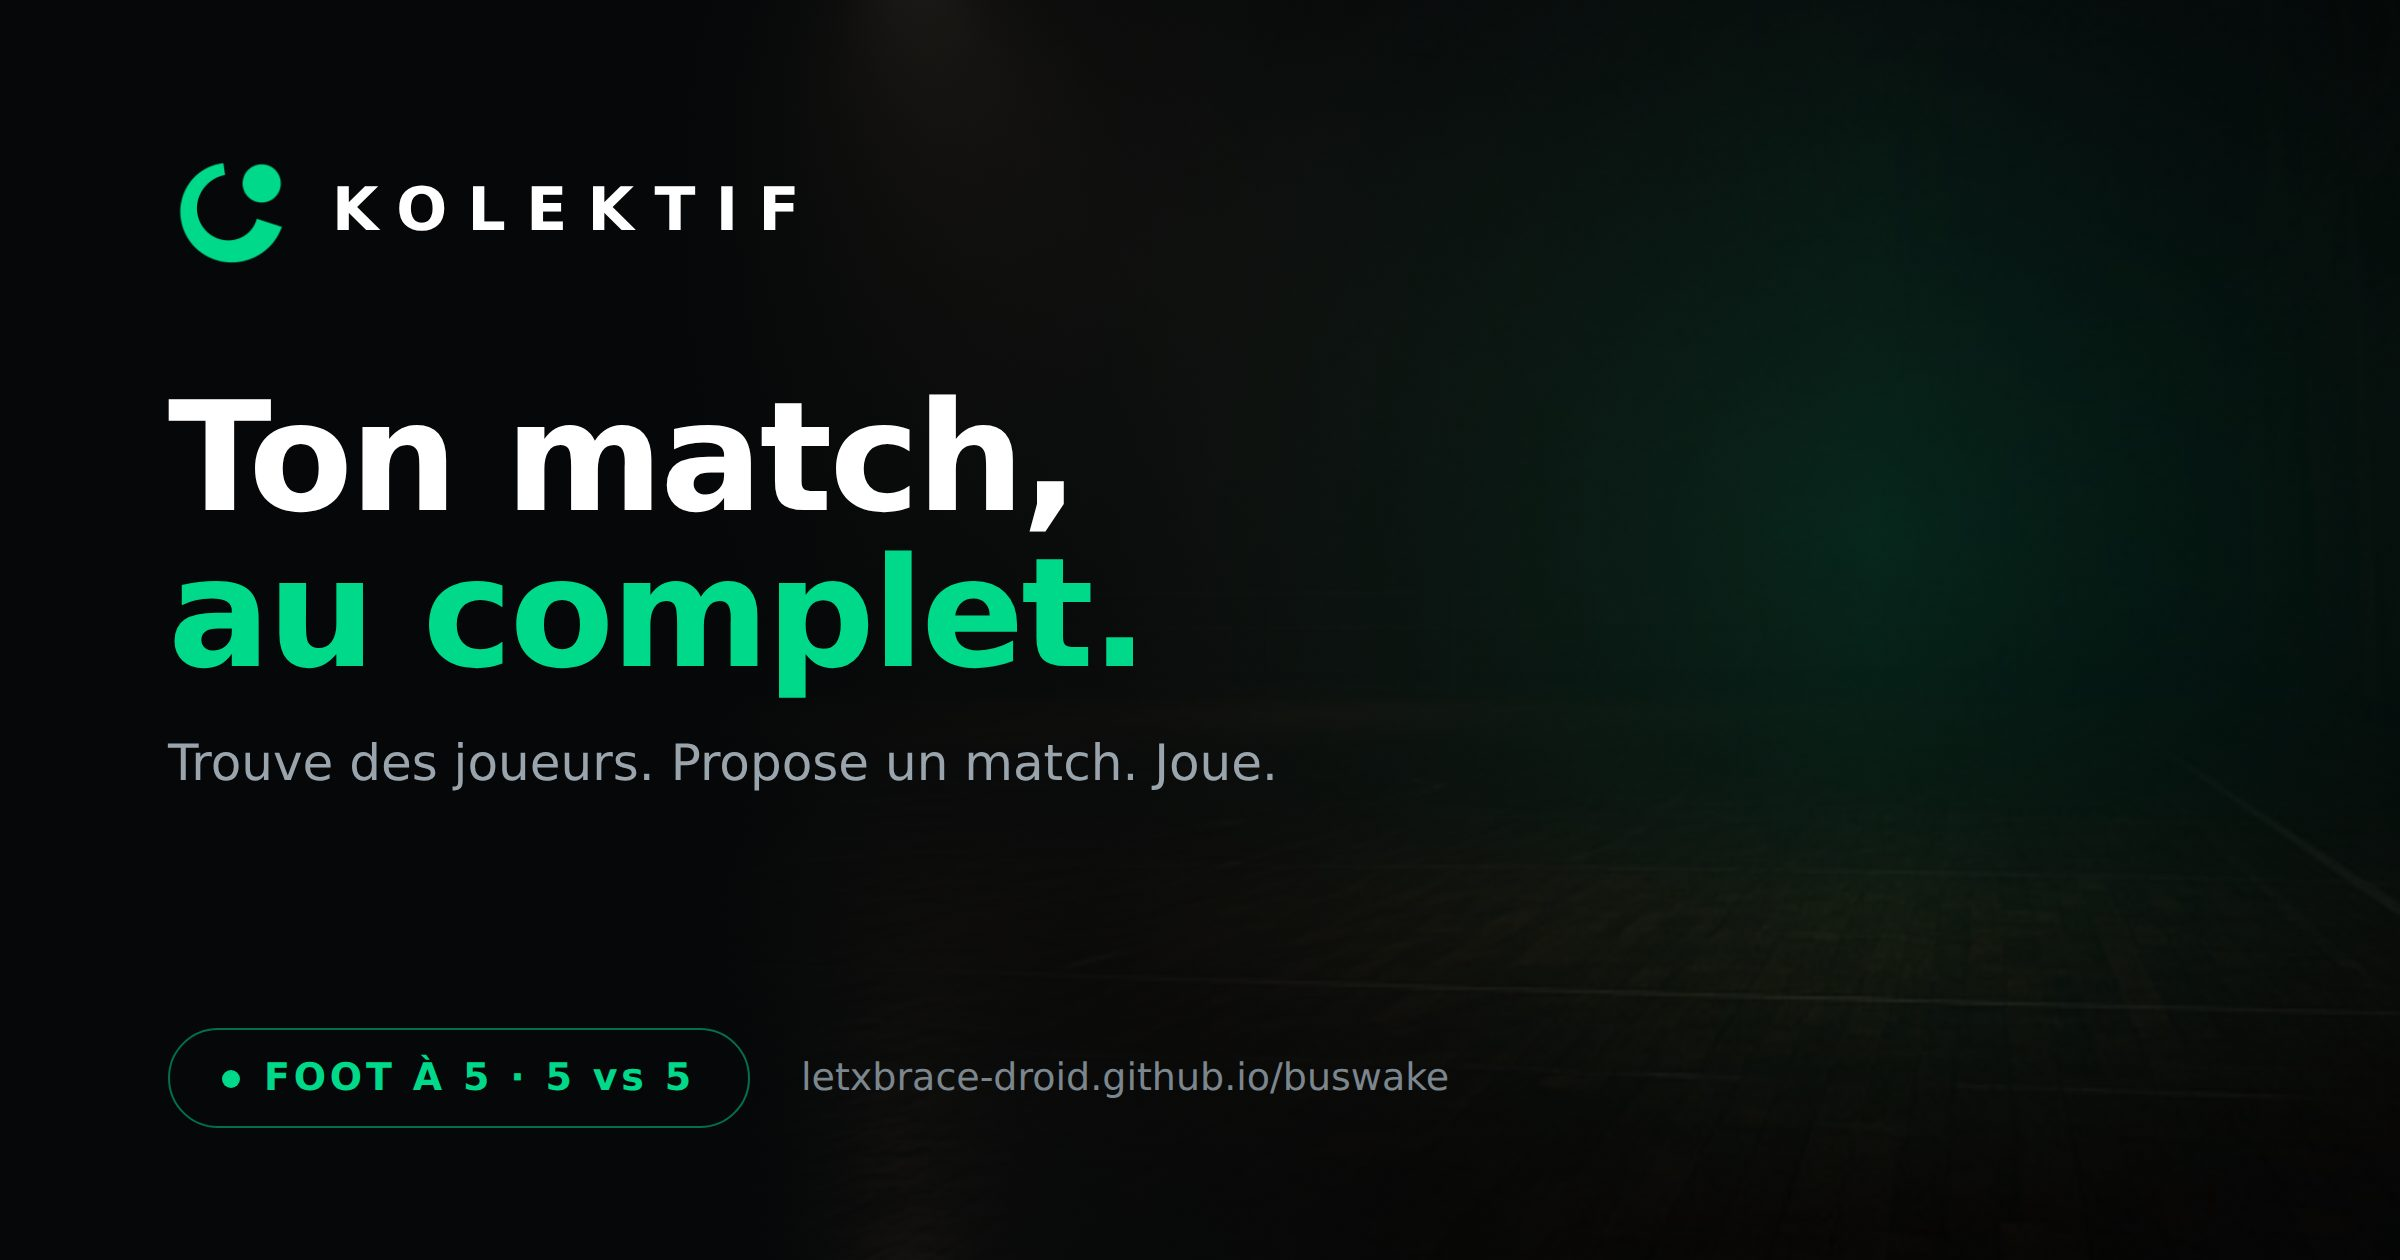
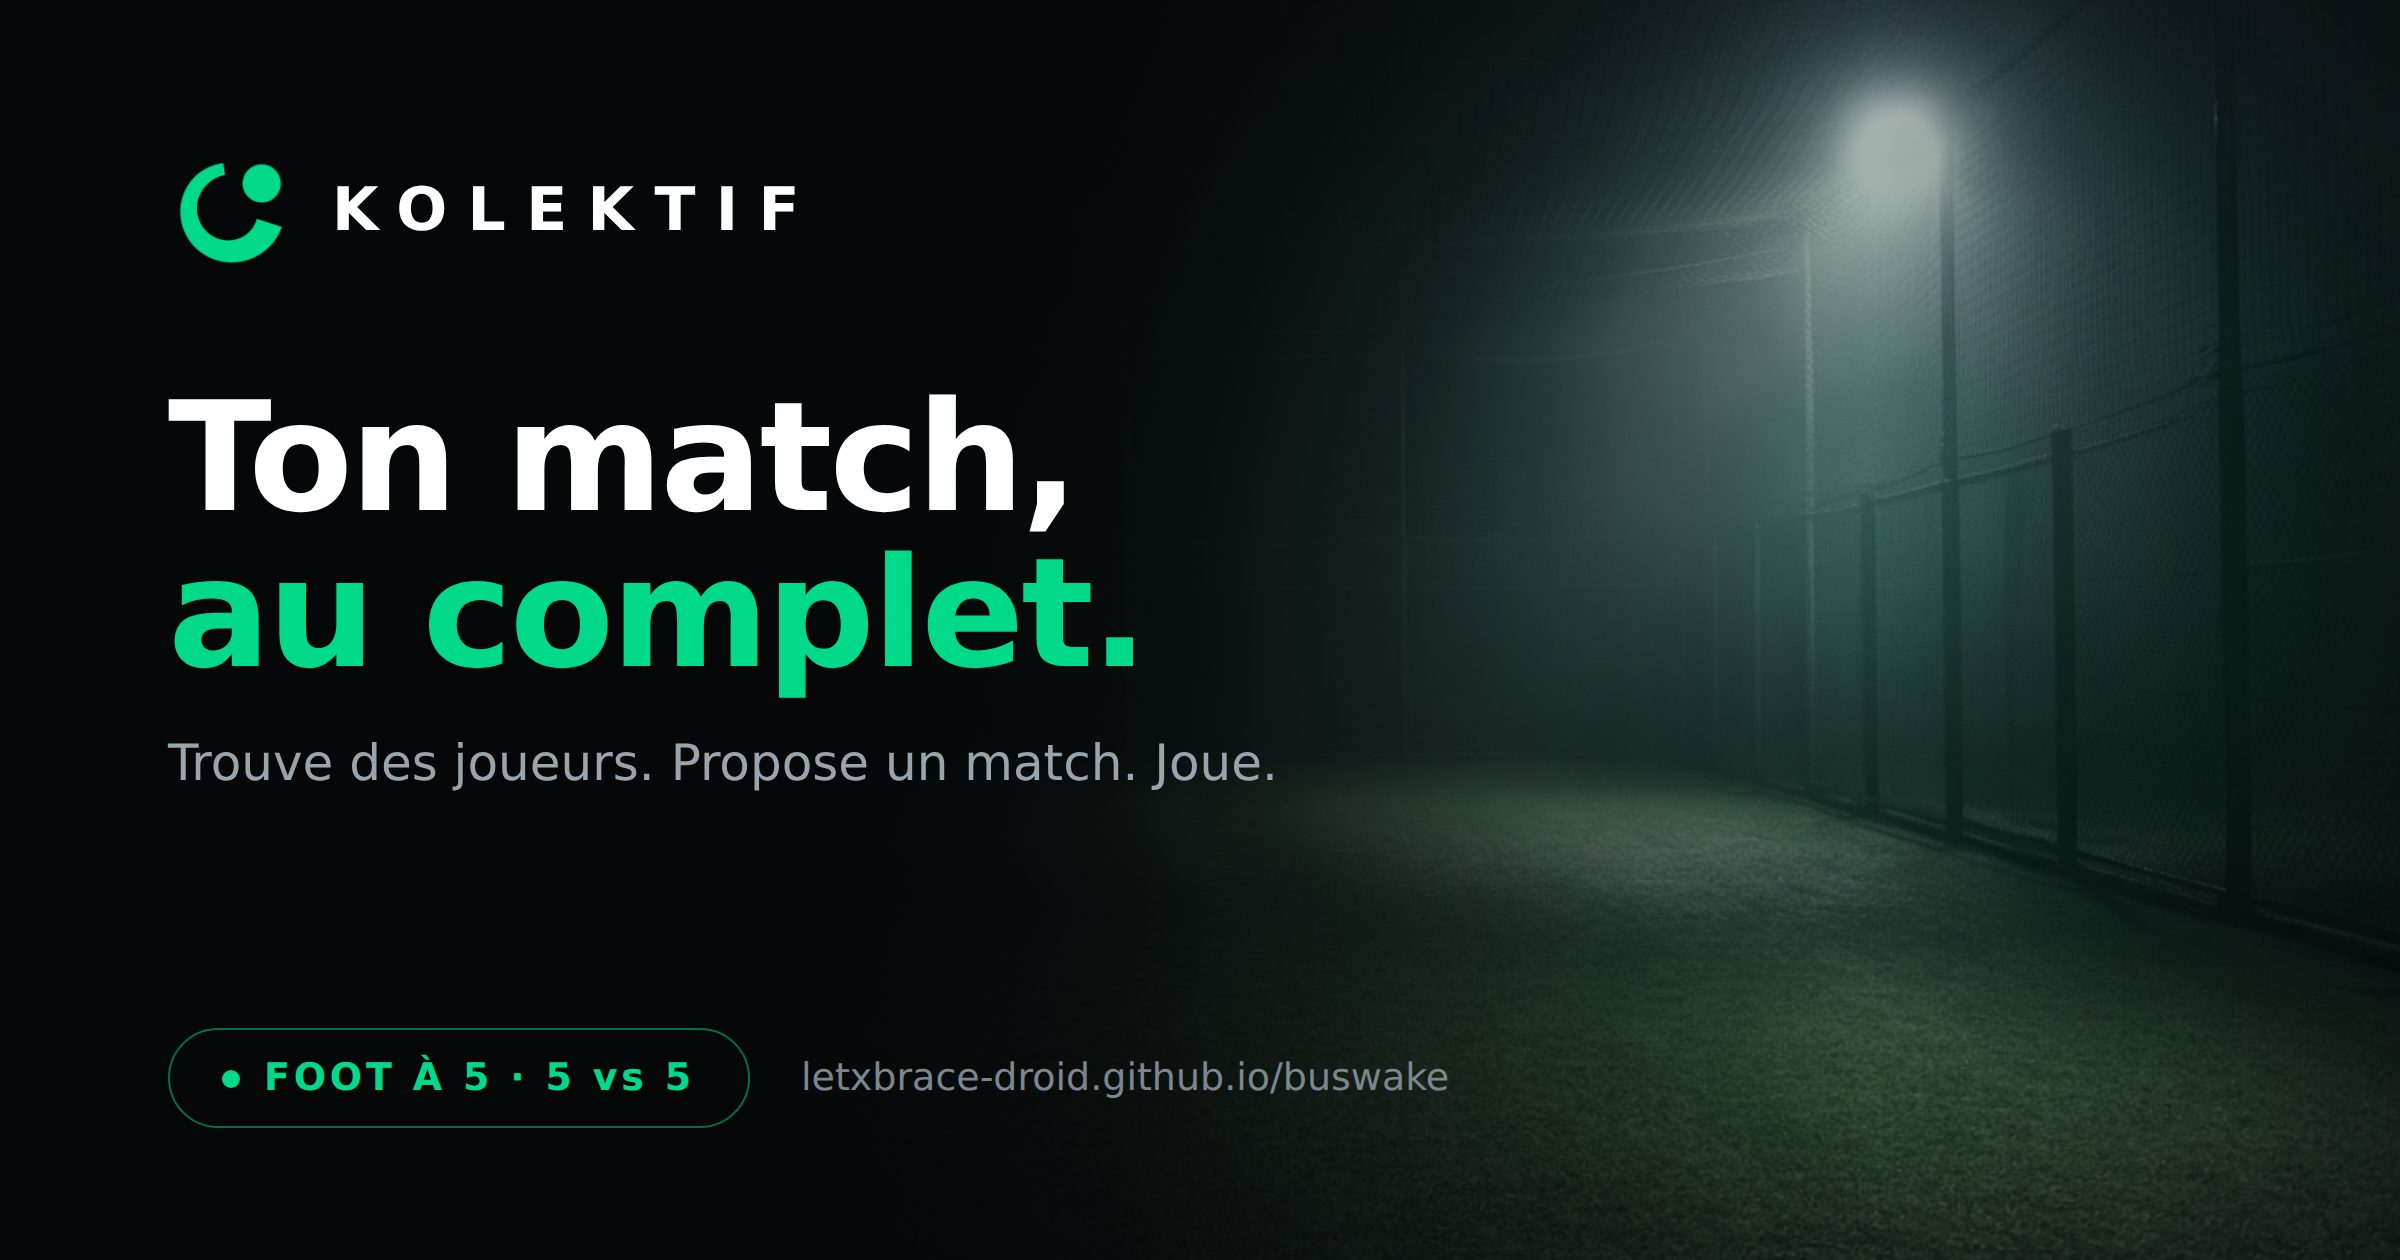
Foot à 5 : photo régénérée, lumière cadrée à droite
Remplace `sport-foot5.jpg` et `og-foot5.jpg` par la source régénérée avec
le projecteur dans le tiers droit.

Mesures du tiers droit (luminance moyenne, pic) :
  avant    17/255  — aucun recadrage ne le rattrapait
  après   111/255

Le bandeau reprend donc le cadrage plein format (recadrage vertical
seulement), au lieu du recadrage dans la moitié gauche qui sacrifiait la
définition pour ramener le cône de lumière hors de la colonne de texte.

Contrastes des cinq sports revérifiés après remplacement — tous au-dessus
des seuils, le foot à 5 passant de l'échec à 7,90:1 sur l'eyebrow :

  sport      eyebrow(≥4,5)  titre(≥3,0)  meta(≥4,5)
  foot5          7,90          9,58         6,38
  foot7          5,81          8,52         7,38
  basket3        7,53         12,66         5,15
  padel          9,25         13,64         6,65
  tennis        10,14          9,63         5,27

Documente dans DESIGN.md la contrainte que le premier prompt ignorait :
une source étant toujours plus étroite que le cadre 880 × 500, la largeur
est contrainte et le sujet ne peut pas être déplacé horizontalement au
recadrage. La composition doit être demandée à la génération.

Claude-Session: https://claude.ai/code/session_01T7sA1XCJFdiGgJisdsrHEK

Changed region(s): [[0.5312, 0.0, 1.0, 1.0]]

diff --git a/DESIGN.md b/DESIGN.md
@@ -208,12 +208,31 @@ voie la photo **et** insuffisant pour le contraste. Le voile horizontal
 règle les deux : il protège la colonne de texte et laisse le terrain
 respirer là où il n'y a rien à lire.
 
-**Limite connue.** `sport-foot5.jpg` est le plus faible des cinq : la
-photo d'origine place son unique source de lumière au centre exact, là où
-passe le texte, et son tiers droit plafonne à 17/255 — aucun recadrage ne
-le sauve. Il est recadré dans la moitié gauche pour ramener le cône de
-lumière à droite, ce qui limite sa définition. À régénérer avec la
-lumière décentrée à droite.
+**Ce que doit dire le prompt.** La première série de photos avait un
+défaut invisible à la lecture du prompt : rien n'y disait *où* devait
+tomber la lumière. Le foot à 5 est revenu avec son unique source au
+centre exact — là où passe le texte — et un tiers droit à 17/255, que
+nul recadrage ne rattrapait. Une source est d'ailleurs toujours plus
+étroite que le cadre 880 × 500, donc **on ne peut jamais déplacer le
+sujet horizontalement** : la largeur est contrainte, seule la verticale
+reste libre. La composition doit donc être demandée à la génération.
+
+La phrase qui manquait, et qui appartient désormais à tout prompt de
+terrain :
+
+> *…the single floodlight and its light pool positioned in the **right
+> third** of the frame, the left third almost entirely dark and empty…*
+
+Après régénération, le tiers droit du foot à 5 passe de 17/255 à
+**111/255**, et son eyebrow de l'échec à 7,90:1. Contrastes finaux :
+
+| Sport | Eyebrow | Titre | Méta |
+|---|---|---|---|
+| Foot à 5 | 7,90 | 9,58 | 6,38 |
+| Foot à 7 | 5,81 | 8,52 | 7,38 |
+| Basket 3×3 | 7,53 | 12,66 | 5,15 |
+| Padel | 9,25 | 13,64 | 6,65 |
+| Tennis | 10,14 | 9,63 | 5,27 |
 
 **Le fond de l'app**, lui, est à 5 % d'opacité : on ne le voit pas, on le
 sent. C'est un plafond, pas un réglage — au-delà, la photo commence à
